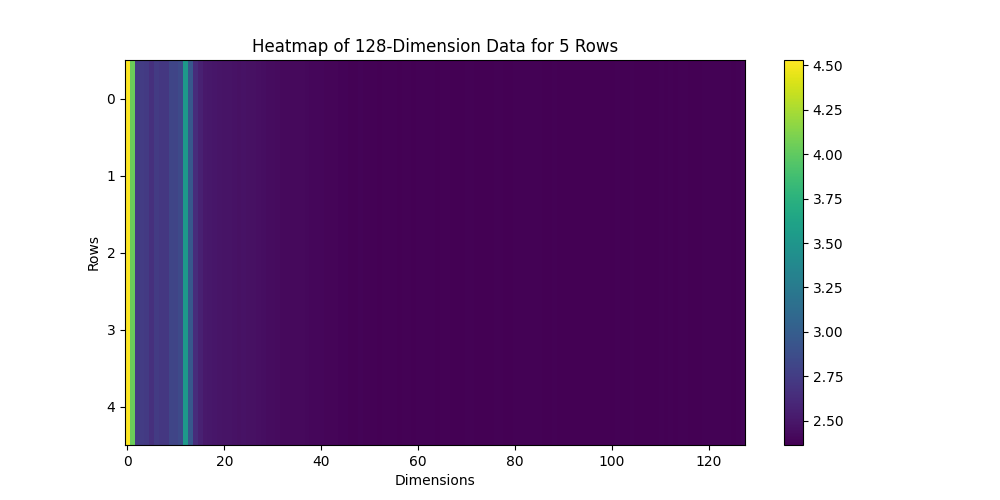
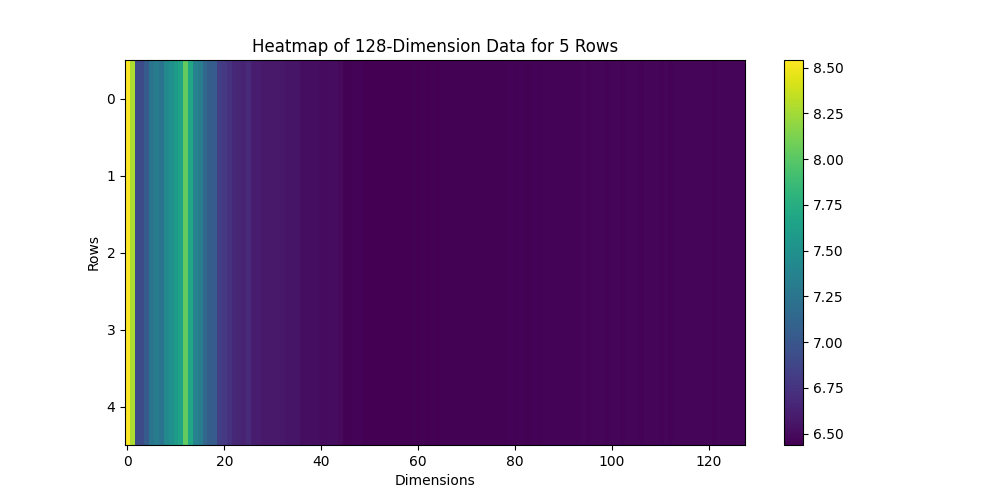
grad norm

diff --git a/main.py b/main.py
@@ -22,7 +22,6 @@ def activation_embeds_fn(model, dataloader, batch_size): # So it contains 5 laye
     
     with t.no_grad():
         for batch in tqdm(dataloader):
-            print(batch["input_ids"].shape)
             
             with model.trace(batch["input_ids"]) as tracer:
                 output0 = model.gpt_neox.layers[0].mlp.output[0].save()
@@ -33,7 +32,6 @@ def activation_embeds_fn(model, dataloader, batch_size): # So it contains 5 laye
                 output = model.embed_out.output.save()
 
             # firstly taking the norm for the batch of 2 and then for the dimension of every token
-            print(output0.shape)
             activation_embeds["layer 0"].append(t.norm(output0, dim = -1))
             activation_embeds["layer 1"].append(t.norm(output1, dim = -1))
             activation_embeds["layer 2"].append(t.norm(output2, dim = -1))
@@ -48,7 +46,6 @@ def activation_embeds_fn(model, dataloader, batch_size): # So it contains 5 laye
 
 def plotting(data, name):
     # Create the heatmap
-    data = np.transpose(data)  # Transpose the data to match the heatmap
     plt.figure(figsize=(10, 5))  # Set figure size
     plt.imshow(data, aspect='auto', cmap='viridis')  # Choose a color map like 'viridis', 'plasma', etc.
 
@@ -77,9 +74,11 @@ class normed:
         self.actemb["layer 2"] = np.linalg.norm(self.actemb["layer 2"], axis=0)
         self.actemb["layer 3"] = np.linalg.norm(self.actemb["layer 3"], axis=0)
         self.actemb["layer 4"] = np.linalg.norm(self.actemb["layer 4"], axis=0)
-        self.actemb["last layer"] = np.linalg.norm(self.actemb["last layer"], axis=0)
+        # self.actemb["last layer"] = np.linalg.norm(self.actemb["last layer"], axis=0)
         
-        assert self.actemb["layer 0"].shape == self.actemb["layer 1"].shape == self.actemb["layer 2"].shape == self.actemb["layer 3"].shape == self.actemb["layer 4"].shape == self.actemb["last layer"] == (128,)
+        print(self.actemb["layer 0"].shape)
+        
+        assert np.array(self.actemb["layer 0"]).shape == np.array(self.actemb["layer 1"]).shape == np.array(self.actemb["layer 2"]).shape == np.array(self.actemb["layer 3"]).shape == np.array(self.actemb["layer 4"]).shape == (128,)
         
     def norm(self):
         
@@ -96,13 +95,13 @@ class normed:
 
     def normwmean(self):
         
-        
+        epsilon = 1e-5
         actlistmean = np.array([
-            np.log(np.array(self.actemb["layer 0"]) - np.mean(np.array(self.actemb["layer 0"]), axis = 0)), 
-            np.log(np.array(self.actemb["layer 1"]) - np.mean(np.array(self.actemb["layer 1"]), axis = 0)),
-            np.log(np.array(self.actemb["layer 2"]) - np.mean(np.array(self.actemb["layer 2"]), axis = 0)),
-            np.log(np.array(self.actemb["layer 3"]) - np.mean(np.array(self.actemb["layer 3"]), axis = 0)),
-            np.log(np.array(self.actemb["layer 4"]) - np.mean(np.array(self.actemb["layer 4"]), axis = 0)),
+            np.log(np.array(self.actemb["layer 0"]) - np.mean(np.array(self.actemb["layer 0"]), axis = 0) + epsilon), 
+            np.log(np.array(self.actemb["layer 1"]) - np.mean(np.array(self.actemb["layer 1"]), axis = 0) + epsilon),
+            np.log(np.array(self.actemb["layer 2"]) - np.mean(np.array(self.actemb["layer 2"]), axis = 0) + epsilon),
+            np.log(np.array(self.actemb["layer 3"]) - np.mean(np.array(self.actemb["layer 3"]), axis = 0) + epsilon),
+            np.log(np.array(self.actemb["layer 4"]) - np.mean(np.array(self.actemb["layer 4"]), axis = 0) + epsilon),
             # mean_acts["last layer"]
             ])
 
@@ -141,12 +140,12 @@ class gradients_norm:
                 model.output.logits.sum().backward()
             
             # firstly taking the norm for the batch of 2 and then for the dimension of every token
-            grad_embeds["layer 0"].append(t.norm(t.norm(output0, dim = 0), dim = -1))
-            grad_embeds["layer 1"].append(t.norm(t.norm(output1, dim = 0), dim = -1))
-            grad_embeds["layer 2"].append(t.norm(t.norm(output2, dim = 0), dim = -1))
-            grad_embeds["layer 3"].append(t.norm(t.norm(output3, dim = 0), dim = -1))
-            grad_embeds["layer 4"].append(t.norm(t.norm(output4, dim = 0), dim = -1))
-            grad_embeds["last layer"].append(t.norm(t.norm(output, dim = 0), dim = -1))
+            grad_embeds["layer 0"].append(t.norm(output0, dim = -1))
+            grad_embeds["layer 1"].append(t.norm(output1, dim = -1))
+            grad_embeds["layer 2"].append(t.norm(output2, dim = -1))
+            grad_embeds["layer 3"].append(t.norm(output3, dim = -1))
+            grad_embeds["layer 4"].append(t.norm(output4, dim = -1))
+            grad_embeds["last layer"].append(t.norm(output, dim = -1))
             
         with open("data/grads.pkl", "wb") as f:
             pickle.dump(grad_embeds, f)
@@ -215,6 +214,11 @@ if __name__ == "__main__":
             pickle.dump(activation_embeds, f)
     
 
-    normed_class = normed(activation_embeds)
-    normed_class.normwmean()
-    normed_class.norm()
+    # normed_class = normed(activation_embeds)
+    # normed_class.normwmean()
+    # normed_class.norm()
+    
+    normed_grad = gradients_norm(model, val_dataloader)
+    normed_grad.norm()
+    normed_grad.normwmean()
+    
